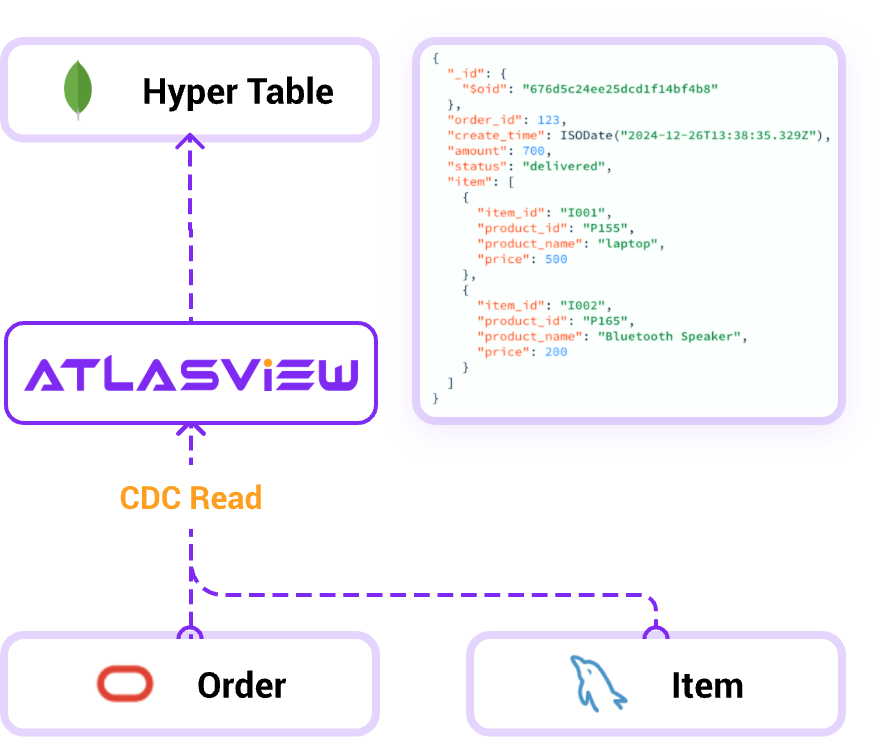
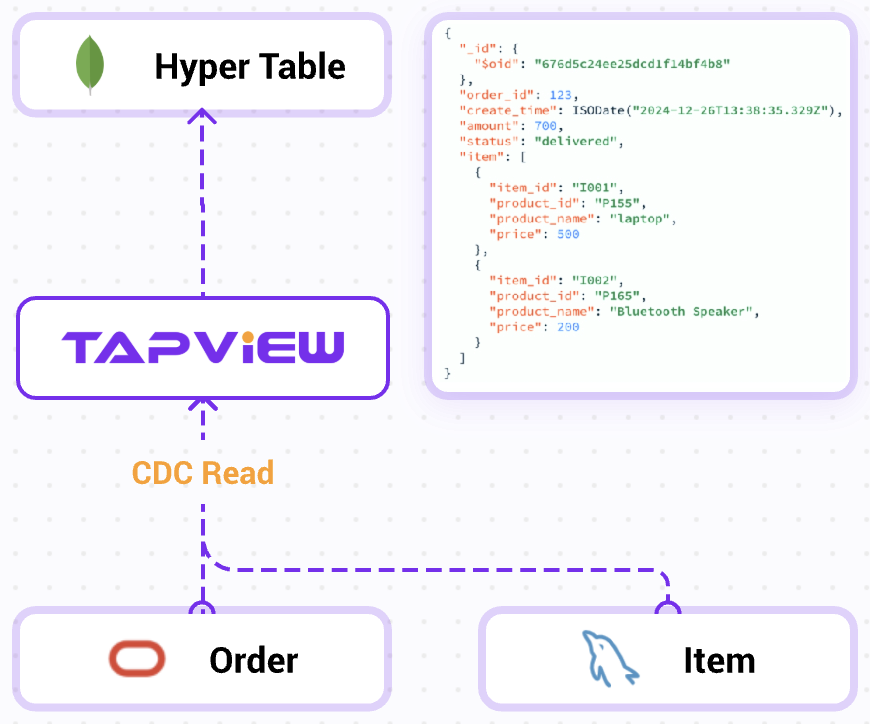
fix some errors

Changed region(s): [[0.0, 0.0, 0.9931, 1.0]]

diff --git a/docs/billing/billing-overview.md b/docs/billing/billing-overview.md
@@ -7,6 +7,8 @@ This article introduces billing information such as billing items, billing metho
 
 TapView charges based on the subscribed compute engine specifications and the amount of data processed. The compute engine specifications determine the data processing speed, while the data volume is measured in GB.
 
+For detailed pricing information, you can visit https://tapview.co/#pricing to get the full and real-time pricing form.
+
 When subscribing to any engine specification, a certain amount of data quota is included. No additional charges will apply if your usage stays within this quota. However, if the usage exceeds the quota, charges will be applied based on the actual data consumption.
 
 Billing information is calculated hourly and charged on a monthly basis. If the accumulated charges are substantial, an earlier payment may be required. Please ensure your payment method remains valid.

diff --git a/docs/quick-start/install.md b/docs/quick-start/install.md
@@ -15,6 +15,9 @@ import Content from '../reuse-content/_all-features.md';
 
 1. Visit [TapView](https://app.tapview.co/) and sign up for free.
 2. Log in to your account use email or gmail/github account
+
+When you log in for the first time, you will receive a 14-day free trial service, which does not require you to provide credit card information. The free usage includes two types of resources: one is shared computing service resources, along with 2GB of data transfer traffic.
+
 3. Follow these quick guides to explore TapView's features:
    - **[Add Data Source](connect-database.md)**: Link your databases or data sources to the TapView platform
    - **[Create Your First View Task](create-task.md)**: Start build your view in MongoDB Atlas using platform
